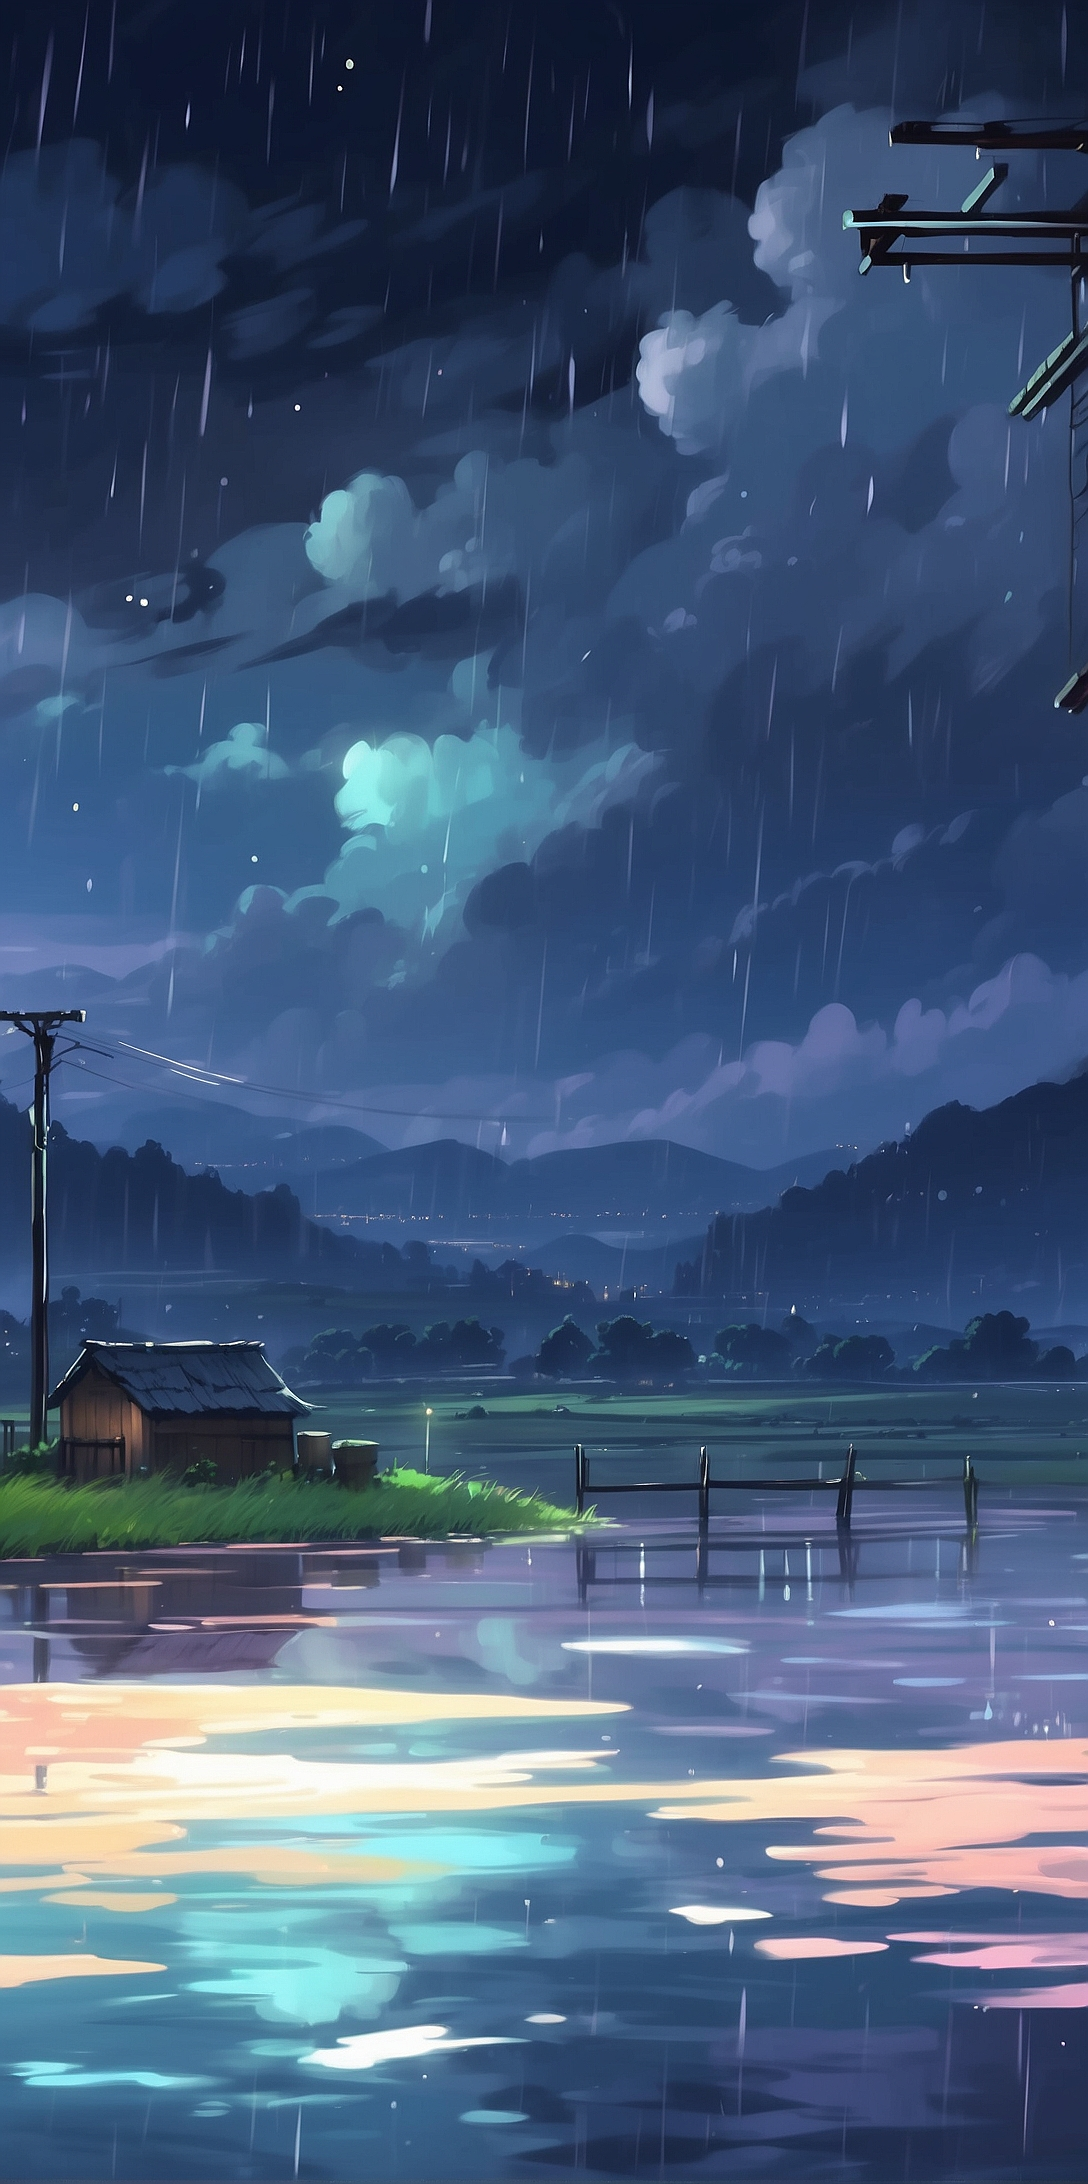
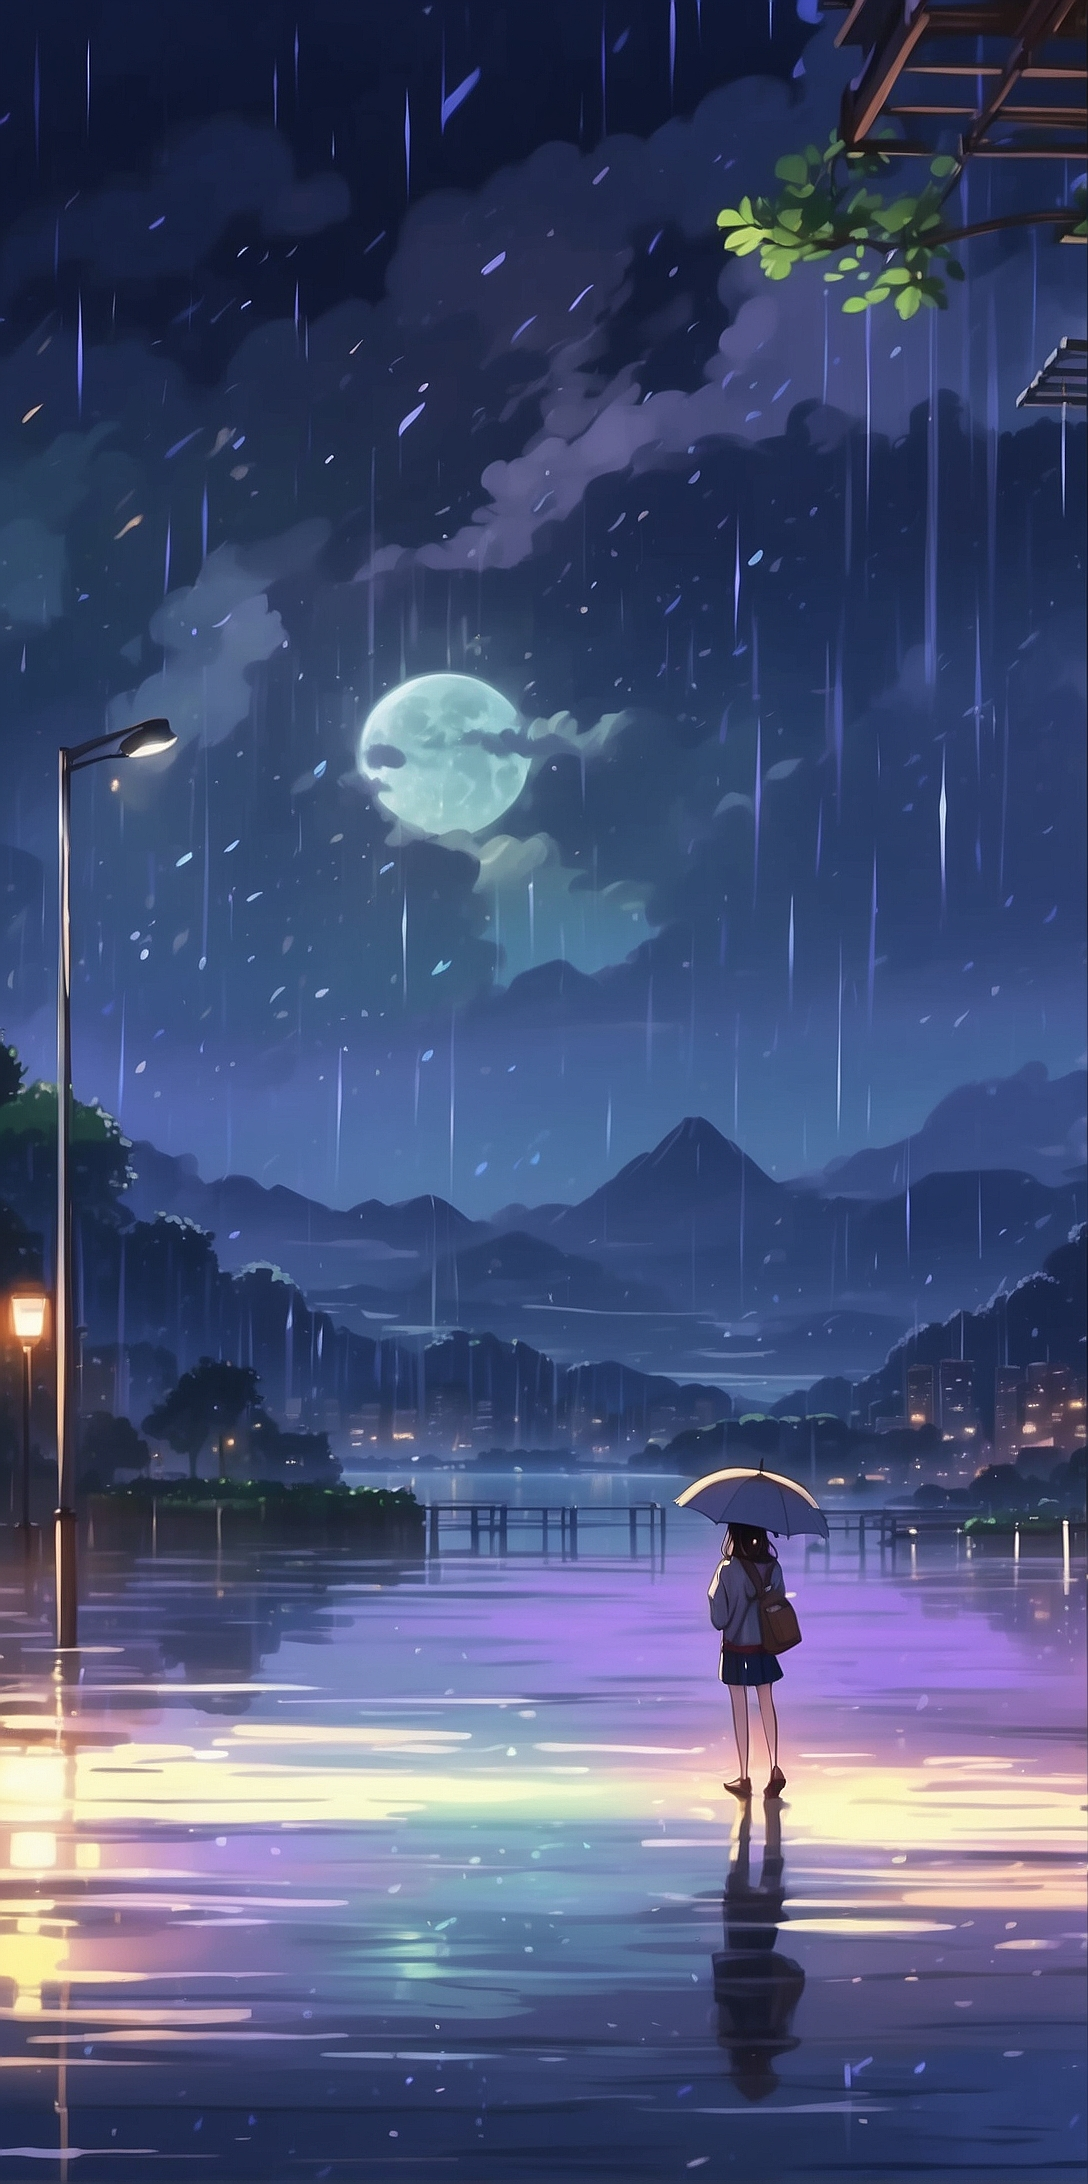
final version

diff --git a/WeatherApp/components/background.js b/WeatherApp/components/background.js
@@ -3,7 +3,6 @@ import { View, StyleSheet, ImageBackground } from "react-native";
 
 const Background = ({ weatherData }) => {
   const getImageSource = (weatherCondition) => {
-    weatherCondition = '01d';
     switch (weatherCondition) {
       //day
       case "01d":
@@ -24,12 +23,12 @@ const Background = ({ weatherData }) => {
         return require("./pictures/day/mist.jpg");
       //night
       case "01n":
-        return require("./pictures/night/rain.jpg");
+        return require("./pictures/night/clear_sky.jpg");
       case "02n":
-        return require("./pictures/night/rain.jpg");
+        return require("./pictures/night/few_clouds.jpg");
       case "03n":
       case "04n":
-        return require("./pictures/night/rain.jpg");
+        return require("./pictures/night/cloudy_sky.jpg");
       case "09n":
       case "10n":
         return require("./pictures/night/rain.jpg");
@@ -38,7 +37,7 @@ const Background = ({ weatherData }) => {
       case "13n":
         return require("./pictures/night/snow.jpg");
       case "50n":
-        return require("./pictures/night/rain.jpg");
+        return require("./pictures/night/mist.jpg");
       default:
         return require("./pictures/day/clear_sky.jpg");
     }

diff --git a/WeatherApp/App.js b/WeatherApp/App.js
@@ -28,9 +28,9 @@ const WeatherApp = () => {
           longitude
         );
         setWeatherData(data);
-        // data.weather[0].icon[data.weather[0].icon.length - 1] === 'd'
-        //   ? setIsDay(true)
-        //   : setIsDay(false);
+        data.weather[0].icon[data.weather[0].icon.length - 1] === 'd'
+          ? setIsDay(true)
+          : setIsDay(false);
         setNextDaysData(nextDaysData);
       } catch (error) {
         console.error("Error on start:", error);

diff --git a/WeatherApp/components/weatherDisplay.js b/WeatherApp/components/weatherDisplay.js
@@ -2,7 +2,6 @@ import React from "react";
 import { View, Image, Text, StyleSheet, ActivityIndicator } from "react-native";
 
 const WeatherDisplay = ({ weatherData, isDay }) => {
-  console.log(isDay);
   return (
     <View style={styles.weatherContainer}>
       {weatherData ? (
